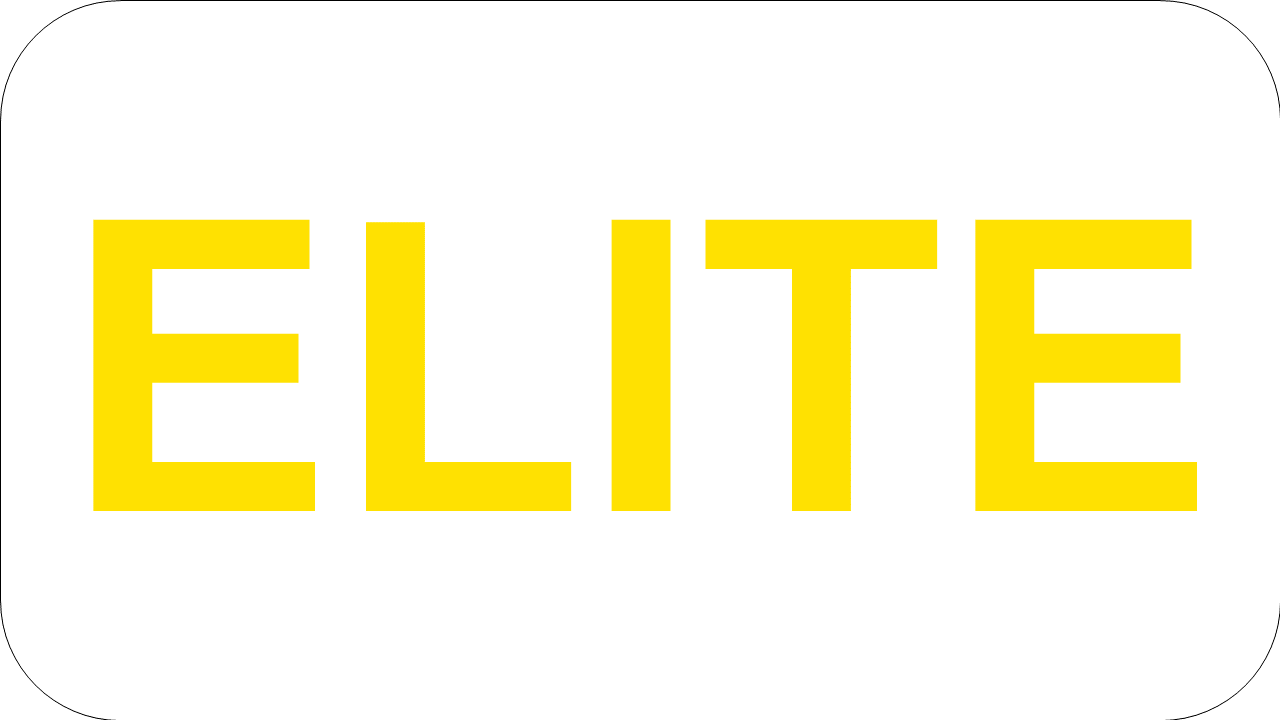
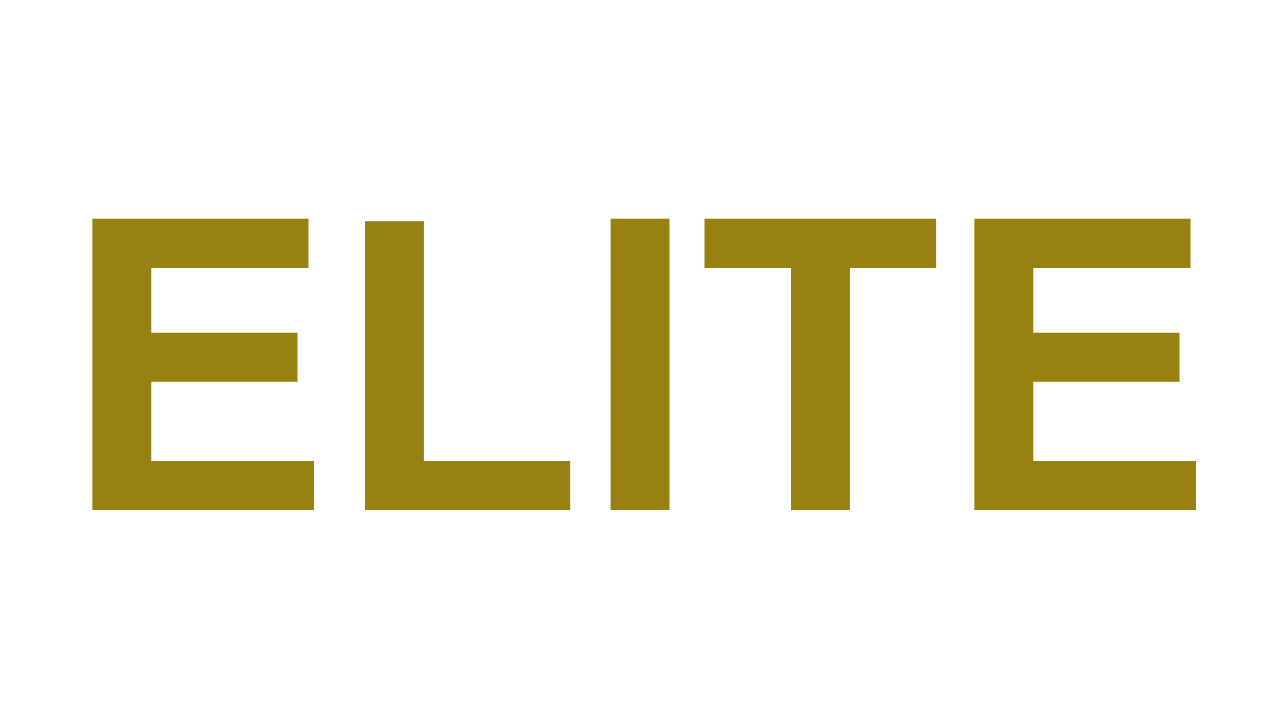
more level fixes

Changed region(s): [[0.2812, 0.3056, 0.9375, 0.7333], [0.0625, 0.3056, 0.25, 0.7333]]

diff --git a/static/javascript/index.js b/static/javascript/index.js
@@ -294,7 +294,7 @@ async function create_race_list(region="all", level="all", sort_by="", reload_da
     }
 
     filtered_race_list = filtered_race_list.filter(server => {
-        return (region == "all" || server.name.toLowerCase().includes(region.toLowerCase())) && (level == "all" || server.level.toLowerCase().includes(level.toLowerCase()))
+        return (region == "all" || server.name.toLowerCase().includes(region.toLowerCase())) && (level == "all" || server.level.toLowerCase().includes(level.toLowerCase()) || (level == "elite" && server.level.toLowerCase().includes("gold")))
     });
 
 

diff --git a/templates/index.html b/templates/index.html
@@ -82,6 +82,7 @@
                             <option value="rookie">Rookie</option>
                             <option value="am">Amateur</option>
                             <option value="pro">Pro</option>
+                            <option value="elite">Elite</option>
                         </select>
                     </div>
                 </div>
